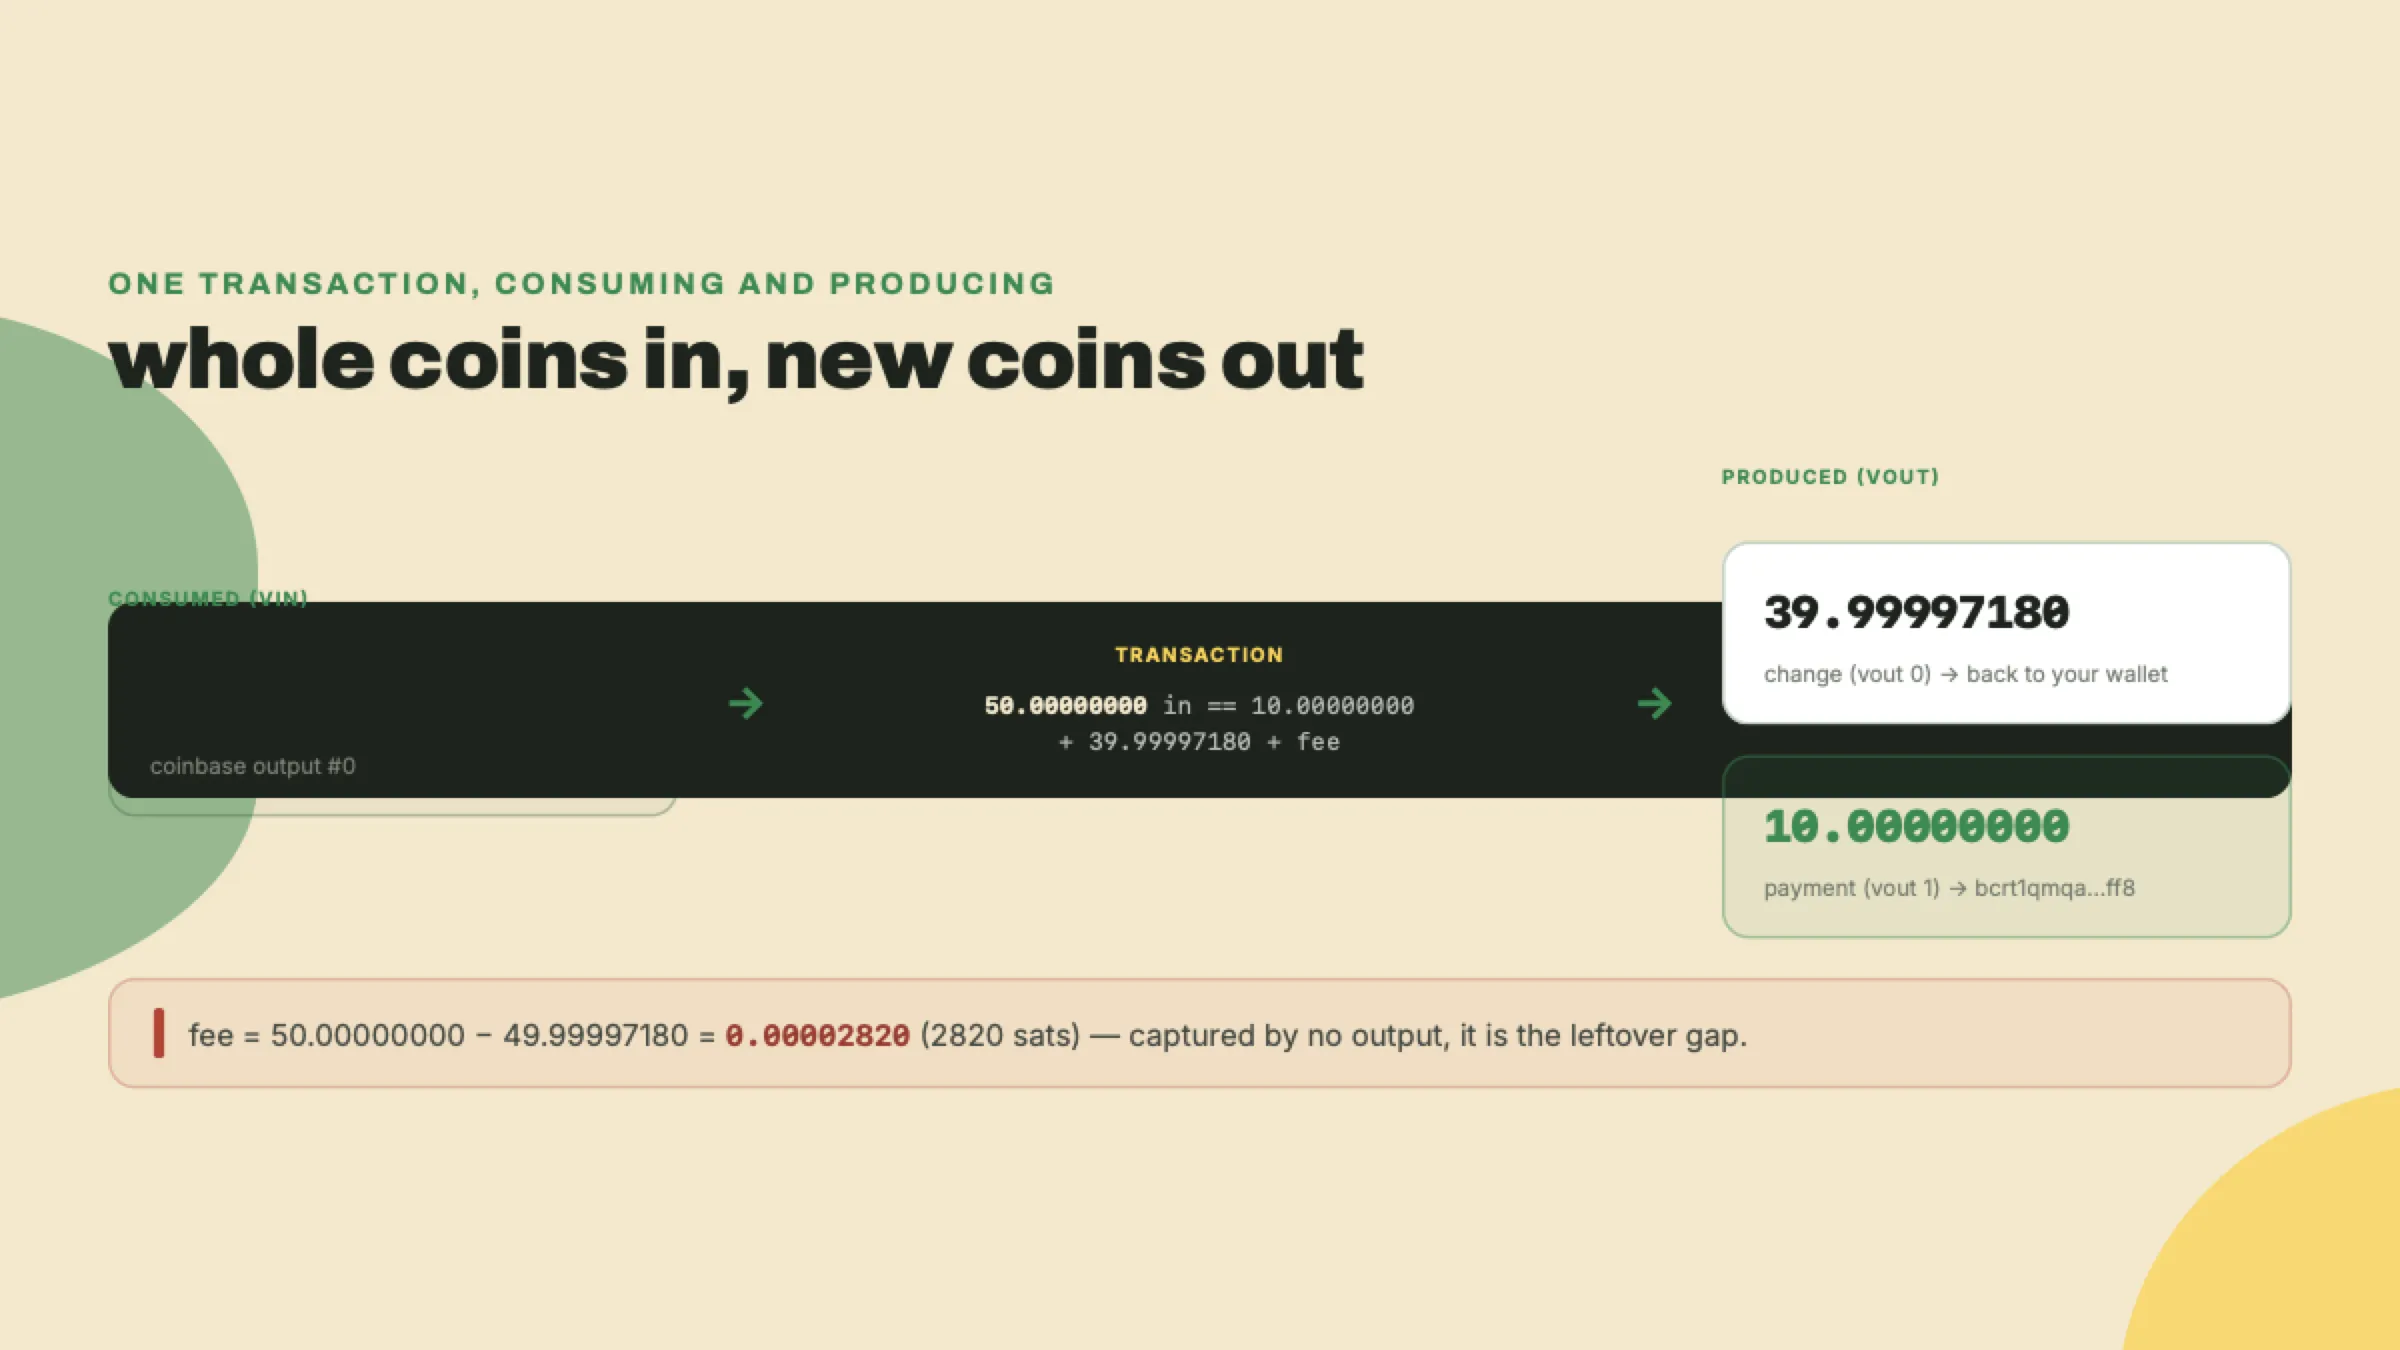
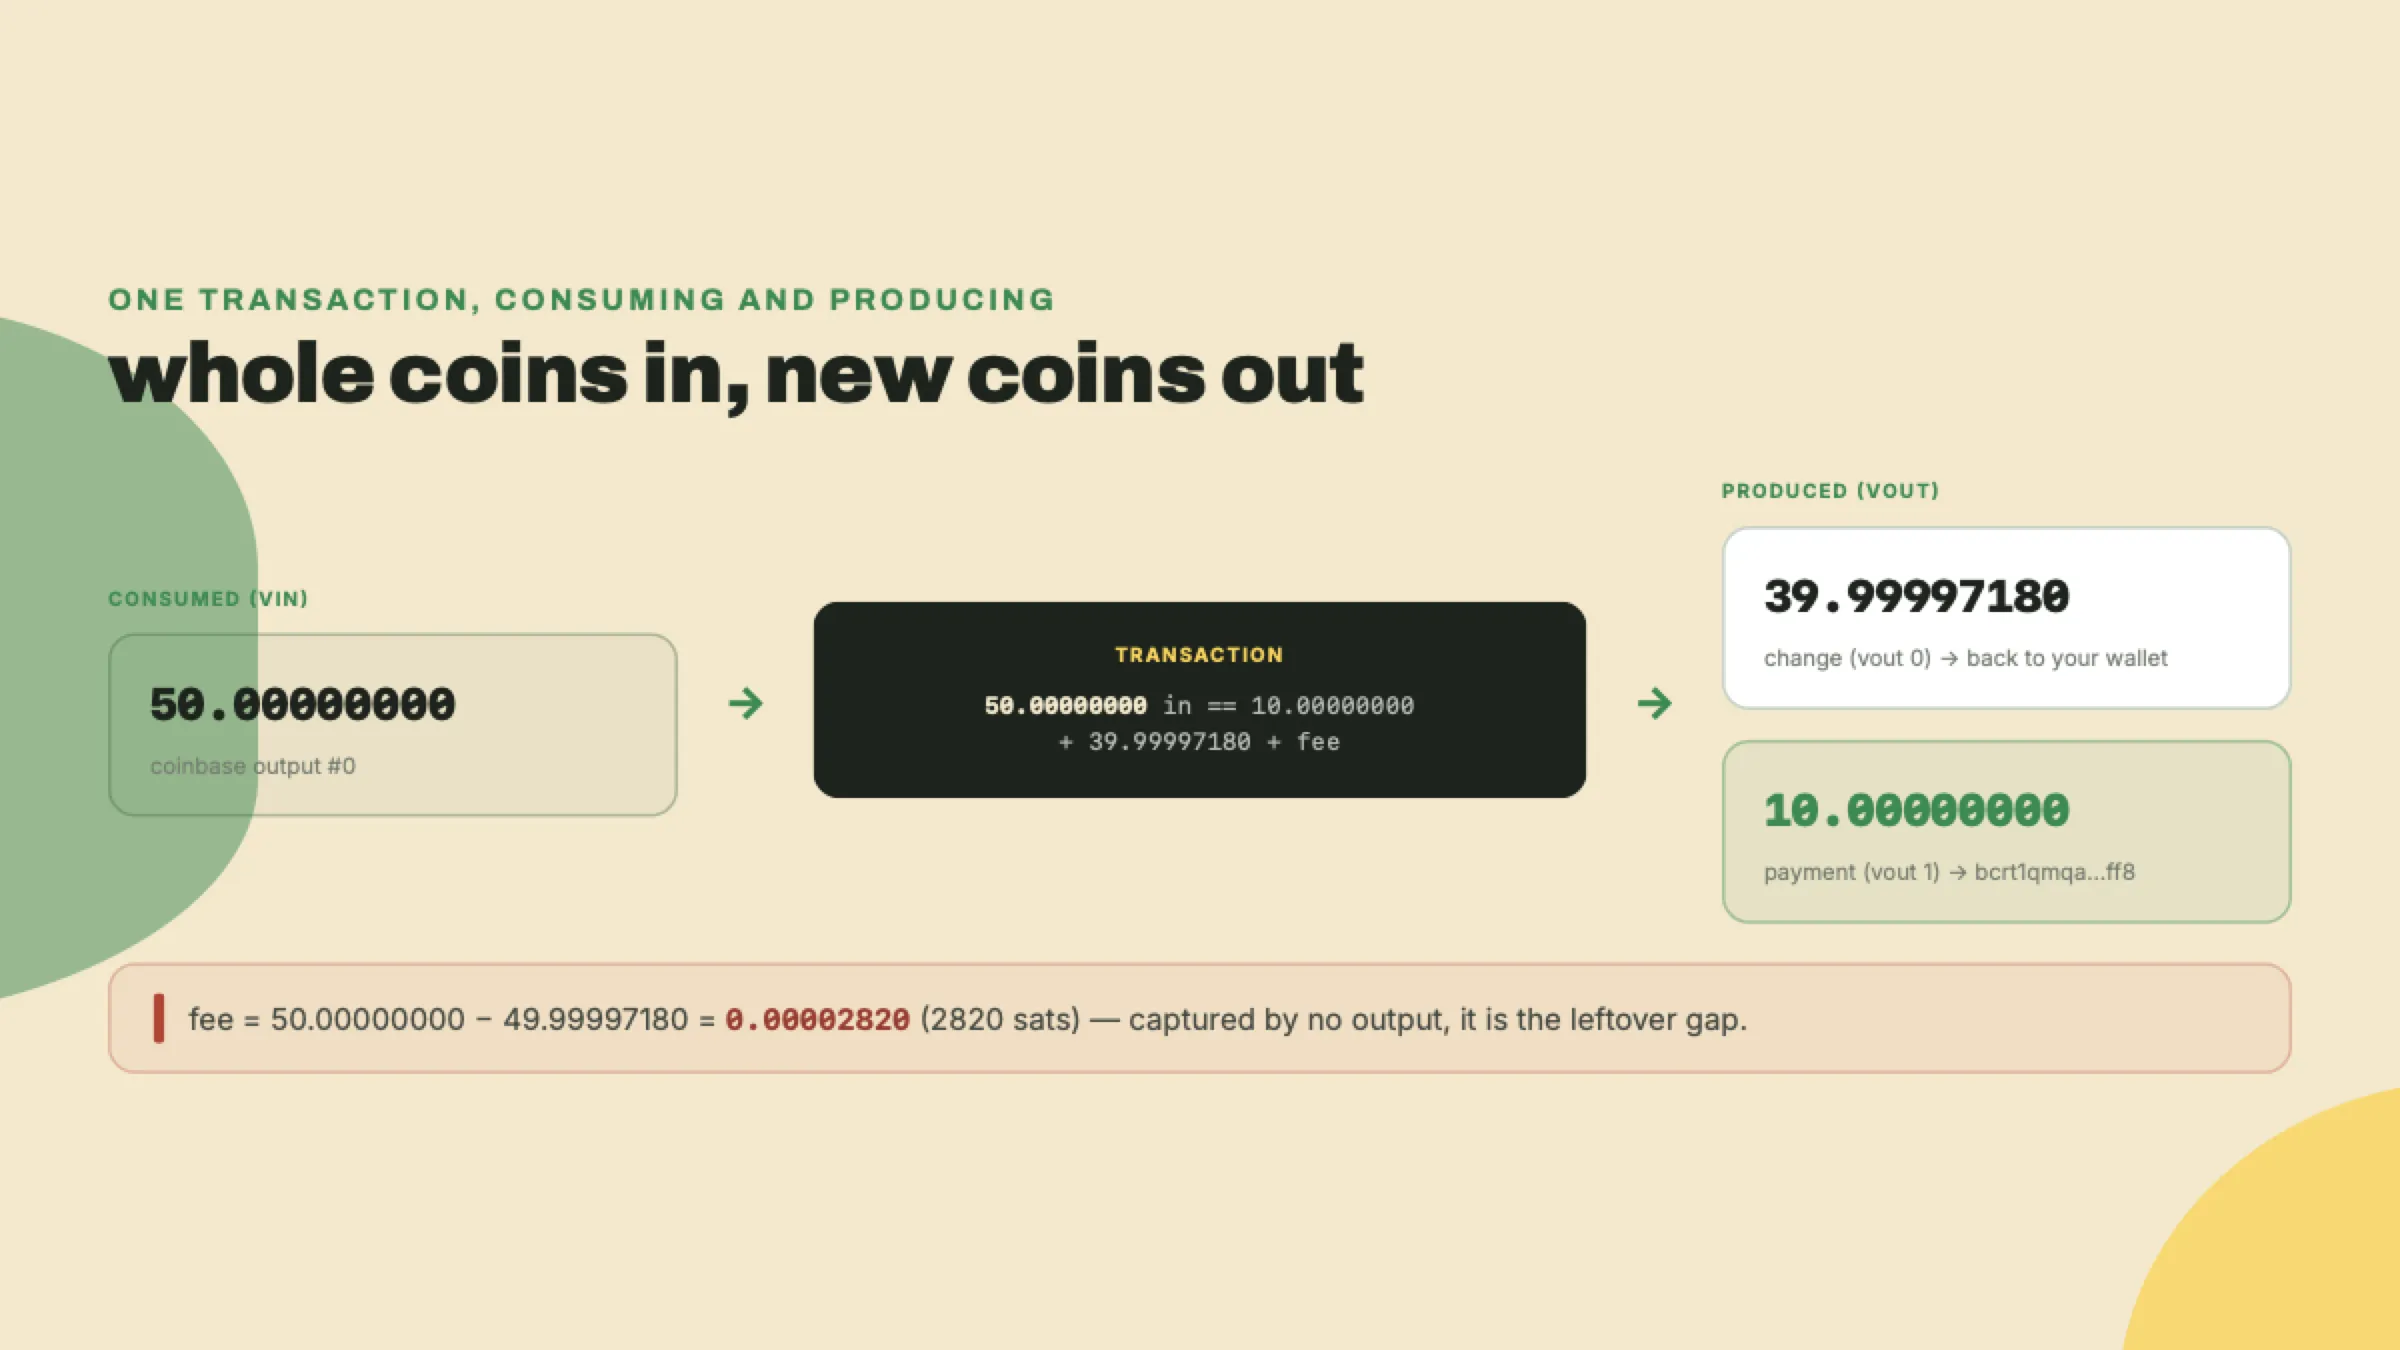
fix(b2s): three figures that shipped an image failing their own render check
Column flex containers here squashed their items below the height their wrapped
text needs, so content printed over content. `flex:0 0 auto` on the items does not
help; block layout does, and loses nothing, because every one of these was using
flex only to stack.

wire-a-bot-and-a-face/v05: a regression this wave introduced. The renderers-js 2.x
row's first line wraps, and its second line printed straight through it -- the
figure that warns you about a broken import was itself unreadable. Adds the render
check its prompt was missing.

where-you-go-from-here/v10: its prompt already carried "[render check: step 3
lists SIX audit firms and all six must sit fully inside the node's card]" and the
shipped image had "Zellic - Trail of Bits - Ackee" hanging out the bottom of the
card onto the page background, touching the cost banner.

spend-a-utxo/v02: worst of the three. `.txn { flex:1 1 0 }` resolved to the full
row width, so the transaction node was painted over both side columns and buried
the input card entirely. Rebuilt on explicit grid tracks, which cannot do that,
and given the render check it never had.

diff --git a/courses/btc-to-sol-evolution/visual-src/spend-a-utxo/v02-flowchart.html b/courses/btc-to-sol-evolution/visual-src/spend-a-utxo/v02-flowchart.html
@@ -13,7 +13,7 @@
 <!-- flowchart: one transaction, consuming and producing
      purpose: certify that a payment destroys whole outputs and creates new ones, with the fee as the leftover gap. The three columns must not overlap: the consumed-input card and its 50.00000000 amount have to stay fully visible beside the transaction band.
      data: CONSUMED (vin) PRODUCED (vout) coinbase output #0: 50.00000000 -> change (vout 0): 39.99997180 -> back to your wallet payment (vout 1): 10.00000000 -> to bcrt1qmqa...ff8 -> back to your wallet arithmetic: 50.00000000 in == 10.00000000 + 39.99997180 + fee fee = 50.00000000 - 49.99997180 = 0.00002820 (2820 sats), captured by NO output
-     prompt: Left-to-right flowchart, dark background, monospace. One input box "50.00000000 (coinbase #0)" on the left, an arrow into a transaction node, two output boxes on the right: "39.99997180 change (vout 0)" and "10.00000000 payment (vout 1)" in that order. A thin red sliver between the arrows labeled "fee 2820 sats (no output holds it)". No decorative icons.
+     prompt: Left-to-right flowchart, dark background, monospace. One input box "50.00000000 (coinbase #0)" on the left, an arrow into a transaction node, two output boxes on the right: "39.99997180 change (vout 0)" and "10.00000000 payment (vout 1)" in that order. A thin red sliver between the arrows labeled "fee 2820 sats (no output holds it)". No decorative icons. [render check: five columns side by side -- input card, arrow, transaction node, arrow, the two output cards stacked -- with every card fully visible and nothing printed over anything else]
      BUILD .viz as on-brand HTML per skills/content-gen/references/visual-rendering.md.
      WeasyPrint-safe CSS only: flexbox/grid/borders/gradients; NO box-shadow, NO
      background-image url(), NO JS. Use brand tokens (--surface-*, --text-*, --stbr-*). -->
@@ -23,9 +23,13 @@
 </div>
 <div class="viz">
 <style>
-  .fc { display:flex; align-items:center; gap:28px; margin-top:40px; }
-  .side { flex:0 0 380px; min-width:0; display:flex; flex-direction:column; }
-  .side.out { gap:20px; }
+  /* Explicit grid tracks, not flex. As `display:flex` with `.txn { flex:1 1 0 }`
+     the middle transaction node resolved to the full row width and printed straight
+     over both side columns, burying the input card. Named tracks cannot do that. */
+  .fc { display:grid; grid-template-columns:380px 34px 1fr 34px 380px; gap:28px;
+    align-items:center; margin-top:40px; }
+  .side { min-width:0; }
+  .side.out .box + .box { margin-top:20px; }
   .colhead { font-family:var(--font-body); font-weight:800; font-size:13px; letter-spacing:.12em;
     text-transform:uppercase; color:var(--stbr-emerald); margin-bottom:14px; }
   .box { border-radius:var(--radius-lg); padding:22px 26px; border:2px solid var(--border-subtle);
@@ -36,14 +40,14 @@
   .box.pay { border-color:rgba(0,139,76,0.40); background:rgba(0,139,76,0.07); }
   .box.pay .amt { color:var(--stbr-emerald); }
   .box.chg { border-color:rgba(48,108,64,0.30); }
-  .txn { flex:1 1 0; min-width:0; align-self:center; display:flex; flex-direction:column; align-items:center; justify-content:center; }
+  .txn { min-width:0; }
   .txnode { background:var(--surface-inverse); color:var(--text-on-dark); border-radius:var(--radius-lg);
     padding:26px 30px; text-align:center; width:100%; }
   .txnode .lbl { font-family:var(--font-body); font-weight:800; font-size:13px; letter-spacing:.12em;
     text-transform:uppercase; color:var(--stbr-yellow); }
   .txnode .eq { font-family:var(--font-mono); font-size:16px; overflow-wrap:anywhere; color:var(--stbr-ink-300); margin-top:12px; line-height:1.5; }
   .txnode .eq b { color:var(--stbr-cream); }
-  .arr { flex:0 0 34px; text-align:center; color:var(--stbr-emerald); font-size:30px; font-weight:900; }
+  .arr { text-align:center; color:var(--stbr-emerald); font-size:30px; font-weight:900; }
   .fee { margin-top:26px; display:flex; align-items:center; gap:16px; background:rgba(192,57,43,0.06);
     border:2px solid rgba(192,57,43,0.28); border-radius:var(--radius-lg); padding:18px 28px; }
   .fee .sliver { flex:0 0 8px; align-self:stretch; min-height:34px; background:#c0392b; border-radius:var(--radius-pill); }

diff --git a/courses/btc-to-sol-evolution/visual-src/wire-a-bot-and-a-face/v05-comparison.html b/courses/btc-to-sol-evolution/visual-src/wire-a-bot-and-a-face/v05-comparison.html
@@ -13,7 +13,7 @@
 <!-- comparison: which codama renderer major to pin
      purpose: pin the real install constraint (the renderer layout, not the kit major) so the bot's ./generated import resolves
      data: @codama/renderers-js 2.x (latest) | renders a publishable npm PACKAGE | writes bot/generated/package.json + moves sources to src/generated/ | its main entry points at a file it never writes | import ... from "./generated" fails to resolve @codama/renderers-js ^1 | renders a plain FOLDER | bot/generated/index.ts + instructions/ + accounts/ + pdas/ | import ... from "./generated" resolves | the rule | pin the RENDERER major, leave @solana/kit unpinned | ask npm before you install: npm view <pkg> peerDependencies | checked 2026-09-07: kit 8.2.0, renderers-js 2.4.0, @solana/react 8.2.0 all co-install
-     prompt: Two-row comparison card, dark theme, monospace. Top row "renderers-js 2.x (latest, breaks the import)" tinted faint red, bottom row "renderers-js ^1 (pin this)" tinted faint green. A bottom band: "pin the renderer, not kit - and read peerDependencies before you install". Do NOT claim @solana/kit v7 is uninstallable or that generated clients require kit v6; that window closed. No logos.
+     prompt: Two-row comparison card, dark theme, monospace. Top row "renderers-js 2.x (latest, breaks the import)" tinted faint red, bottom row "renderers-js ^1 (pin this)" tinted faint green. A bottom band: "pin the renderer, not kit - and read peerDependencies before you install". Do NOT claim @solana/kit v7 is uninstallable or that generated clients require kit v6; that window closed. No logos. [render check: each row holds two stacked lines of prose and the first one wraps -- both lines must be fully legible with clear air between them, never overprinting each other]
      BUILD .viz as on-brand HTML per skills/content-gen/references/visual-rendering.md.
      WeasyPrint-safe CSS only: flexbox/grid/borders/gradients; NO box-shadow, NO
      background-image url(), NO JS. Use brand tokens (--surface-*, --text-*, --stbr-*). -->
@@ -32,7 +32,14 @@
   .cmp .tag { align-self:flex-start; margin-top:12px; font-family:var(--font-body); font-weight:800; font-size:14px; padding:6px 14px; border-radius:var(--radius-pill); }
   .cmp .bad .tag { background:#c0392b; color:#fff; }
   .cmp .good .tag { background:var(--stbr-emerald); color:var(--text-on-brand); }
-  .cmp .detail { flex:1; padding:26px 32px; display:flex; flex-direction:column; justify-content:center; gap:10px; font-size:20px; color:var(--text-secondary); line-height:1.4; }
+  /* Block layout, deliberately, not `display:flex; flex-direction:column`. As a
+     column flex container this box laid its two spans out on top of each other the
+     moment the first one wrapped -- line 2 of the first printed straight through
+     the second -- and flex:0 0 auto on the items did not help. Stacked blocks with
+     a margin do exactly what is wanted and cannot overlap. */
+  .cmp .detail { flex:1; padding:26px 32px; font-size:20px; color:var(--text-secondary); line-height:1.4; }
+  .cmp .detail > span { display:block; }
+  .cmp .detail > span + span { margin-top:10px; }
   .cmp .detail b { color:var(--text-primary); }
   .cmp .detail code { font-family:var(--font-mono); color:var(--stbr-emerald); font-weight:700; }
   .verdict { margin-top:26px; background:var(--surface-brand); color:var(--text-on-brand); border-radius:var(--radius-lg); padding:24px 32px; font-size:21px; font-weight:600; line-height:1.4; }

diff --git a/courses/btc-to-sol-evolution/visual-src/where-you-go-from-here/v10-flowchart.html b/courses/btc-to-sol-evolution/visual-src/where-you-go-from-here/v10-flowchart.html
@@ -23,8 +23,12 @@
 <div class="viz">
 <style>
   .flow { display:flex; align-items:stretch; margin-top:36px; }
+  /* Block layout inside the node, not a column flex container. As flex items the
+     three lines kept flex-shrink:1, so the node squashed them below the height the
+     wrapped audit-firm list needs and that list spilled out under the card onto the
+     page. Blocks stack to their content height and the card grows to fit. */
   .node { flex:1; background:var(--surface-card); border:2px solid var(--border-subtle);
-    border-radius:var(--radius-lg); padding:22px 18px; display:flex; flex-direction:column; justify-content:flex-start; text-align:center; }
+    border-radius:var(--radius-lg); padding:22px 18px; text-align:center; }
   .node .step { font-family:var(--font-body); font-weight:800; font-size:12px; letter-spacing:.09em;
     text-transform:uppercase; color:var(--stbr-emerald); margin-bottom:10px; }
   .node .t { font-family:var(--font-display); font-weight:900; font-size:19px; line-height:1.1;
